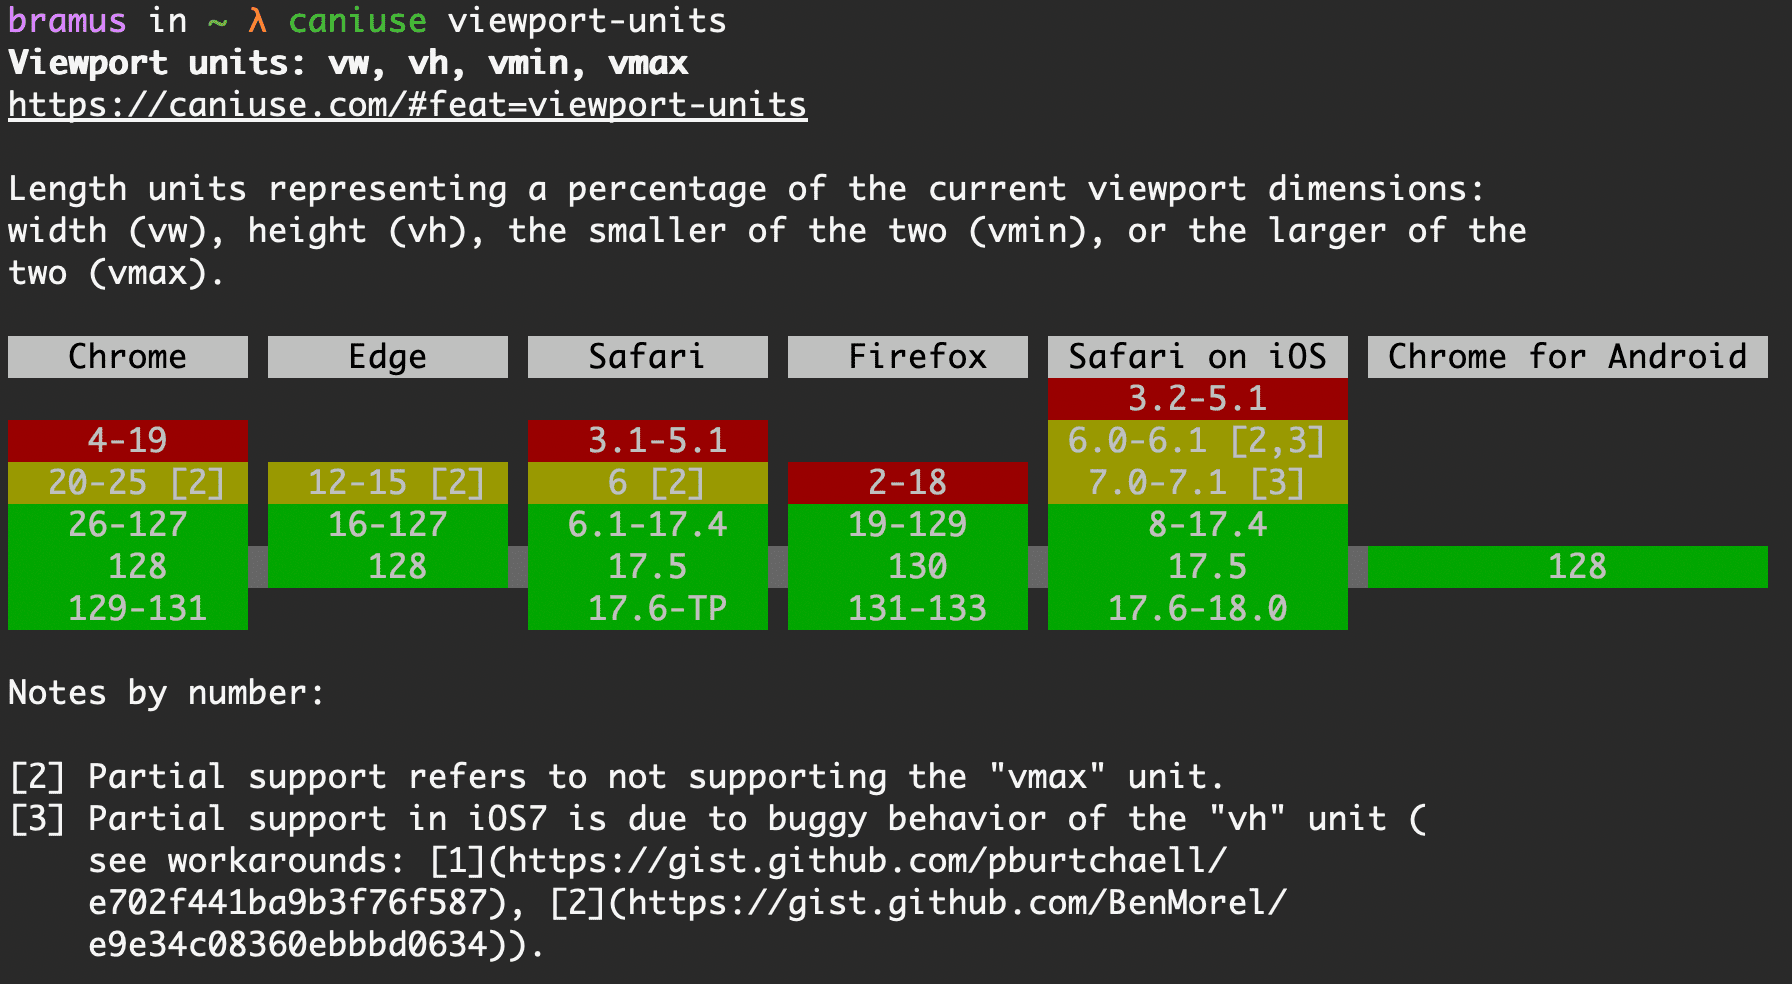
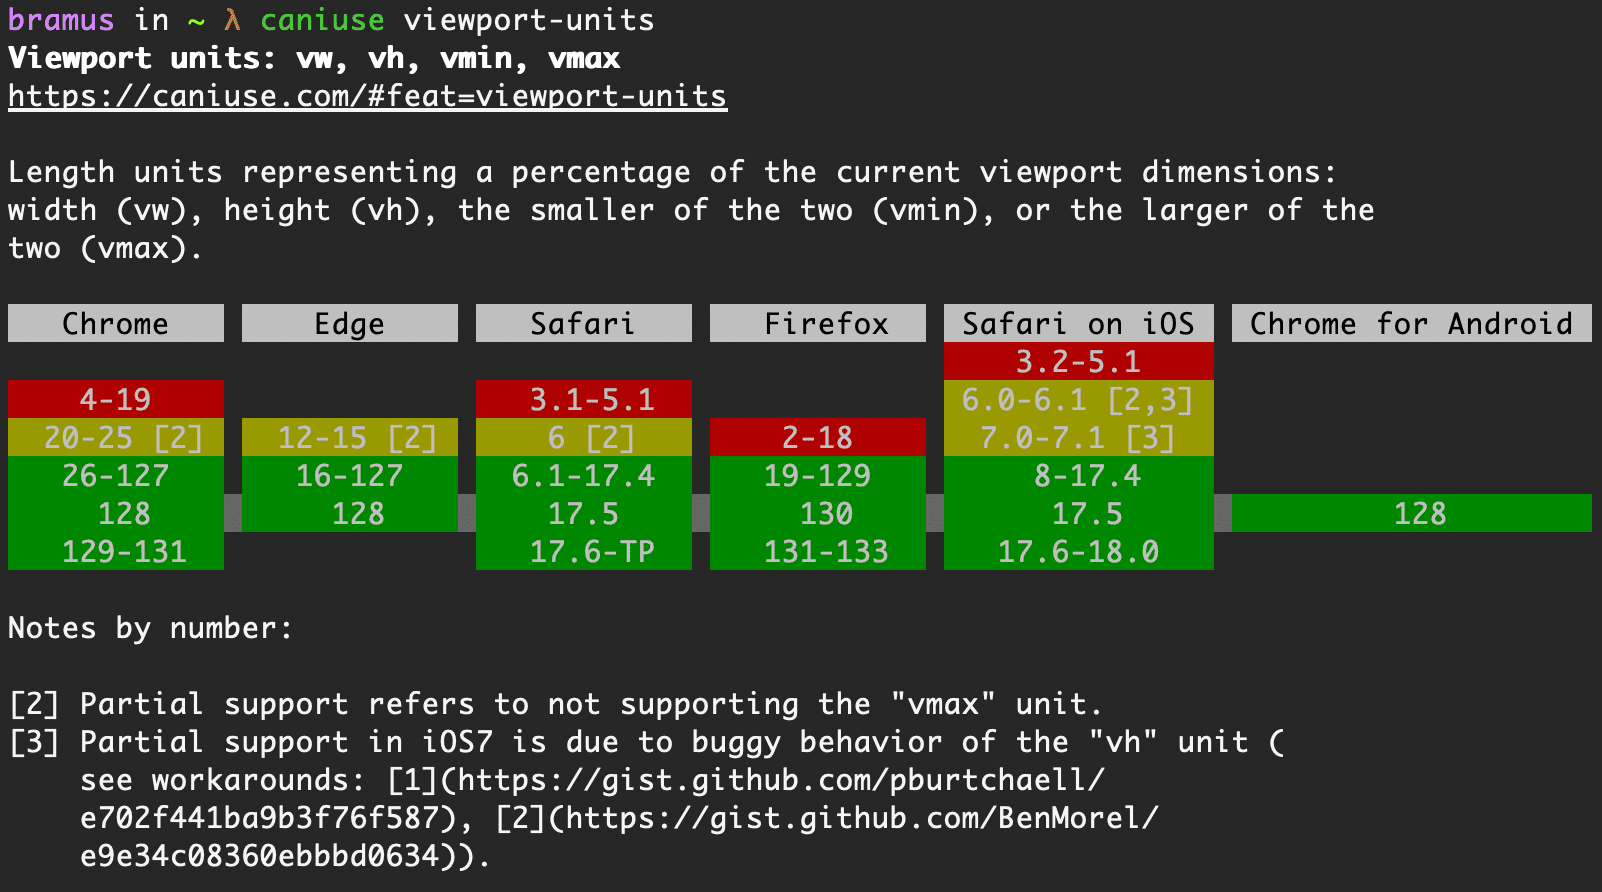
Tweak colors

diff --git a/index.js b/index.js
@@ -71,10 +71,10 @@ const printTableRowItem = function printTableRowItem(versionString, statArray, c
   // Support is indicated by the first entry in the statArray
   switch (statArray[0]) {
     case 'y': // (Y)es, supported by default
-      process.stdout.write(clc.white.bgGreen(paddedVersionString));
+      process.stdout.write(clc.white.bgXterm(28)(paddedVersionString));
       return;
     case 'a': // (A)lmost supported (aka Partial support)
-      process.stdout.write(clc.white.bgYellow(paddedVersionString));
+      process.stdout.write(clc.white.bgXterm(3)(paddedVersionString));
       return;
     case 'u': // Support (u)nknown
       process.stdout.write(clc.white.bgXterm(240)(paddedVersionString));
@@ -84,7 +84,7 @@ const printTableRowItem = function printTableRowItem(versionString, statArray, c
     case 'x': // Requires prefi(x) to work
     case 'd': // (D)isabled by default (need to enable flag or something)
     default:
-      process.stdout.write(clc.white.bgRed(paddedVersionString));
+      process.stdout.write(clc.white.bgXterm(124)(paddedVersionString));
   }
 };
 
